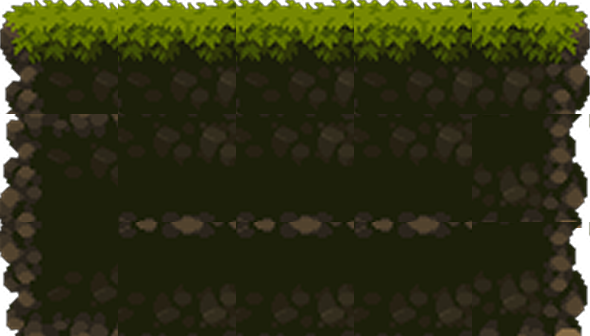
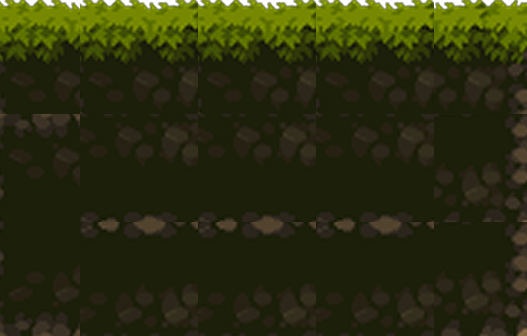
perbaikan tanah

diff --git a/kuliah/PemrogramanObjekII/EndlessRunner/src/model/Ground.java b/kuliah/PemrogramanObjekII/EndlessRunner/src/model/Ground.java
@@ -1,0 +1,58 @@
+package model;
+
+import javax.imageio.ImageIO;
+import java.awt.*;
+import java.io.File;
+import java.io.IOException;
+
+public class Ground {
+    private int x, y;
+    private int width, height;
+    private Image groundImage;
+
+    public Ground(int x, int y, int width, int height) {
+        this.x = x;
+        this.y = y;
+        this.width = width;
+        this.height = height;
+
+        // Muat gambar tanah
+        try {
+            groundImage = ImageIO.read(new File("assets/images/medium_ground.png"));
+        } catch (IOException e) {
+            e.printStackTrace();
+        }
+    }
+
+    public void render(Graphics g) {
+        if (groundImage != null) {
+            int imageWidth = groundImage.getWidth(null); // Lebar gambar tanah
+
+            // Gambar tanah dari posisi x hingga memenuhi layar
+            for (int i = x; i < getScreenWidth(); i += imageWidth) {
+                g.drawImage(groundImage, i, y, imageWidth, height, null);
+            }
+
+            // Gambar tanah tambahan jika posisi x negatif
+            for (int i = x - imageWidth; i < 0; i += imageWidth) {
+                g.drawImage(groundImage, i, y, imageWidth, height, null);
+            }
+        }
+    }
+
+    public void update() {
+        // Tanah bergerak ke kiri
+        x -= 5;
+
+        int imageWidth = groundImage.getWidth(null); // Lebar gambar tanah
+
+        // Reset posisi tanah jika sudah keluar dari layar
+        if (x <= -imageWidth) {
+            x += imageWidth;
+        }
+    }
+
+    private int getScreenWidth() {
+        return Toolkit.getDefaultToolkit().getScreenSize().width;
+    }
+}

diff --git a/kuliah/PemrogramanObjekII/EndlessRunner/src/ui/GamePanel.java b/kuliah/PemrogramanObjekII/EndlessRunner/src/ui/GamePanel.java
@@ -1,6 +1,7 @@
 package ui;
 
 import model.Player;
+import model.Ground;
 
 import javax.swing.*;
 import java.awt.*;
@@ -9,10 +10,12 @@ import java.awt.event.KeyListener;
 
 public class GamePanel extends JPanel implements KeyListener {
     private Player player;
+    private Ground ground;
 
     public GamePanel() {
-        // Inisialisasi pemain
-        player = new Player(100, 615, 71, 139);
+        // Inisialisasi pemain dan tanah
+        player = new Player(100, 615, 71, 139); // Posisi awal pemain
+        ground = new Ground(0, 750, Toolkit.getDefaultToolkit().getScreenSize().width * 2, 300); // Tanah sepanjang 2x lebar layar
 
         // Tambahkan KeyListener untuk menangani input
         addKeyListener(this);
@@ -23,17 +26,17 @@ public class GamePanel extends JPanel implements KeyListener {
     protected void paintComponent(Graphics g) {
         super.paintComponent(g);
 
-        // gambar garis merah (lantai)
-        g.setColor(Color.RED);
-        g.drawLine(0, 750, getWidth(), 750); // Garis horizontal di posisi 750
+        // Gambar tanah
+        ground.render(g);
 
         // Render pemain
         player.render(g);
     }
 
     public void update() {
-        // Update pemain
+        // Update pemain dan tanah
         player.update();
+        ground.update();
         repaint();
     }
 
